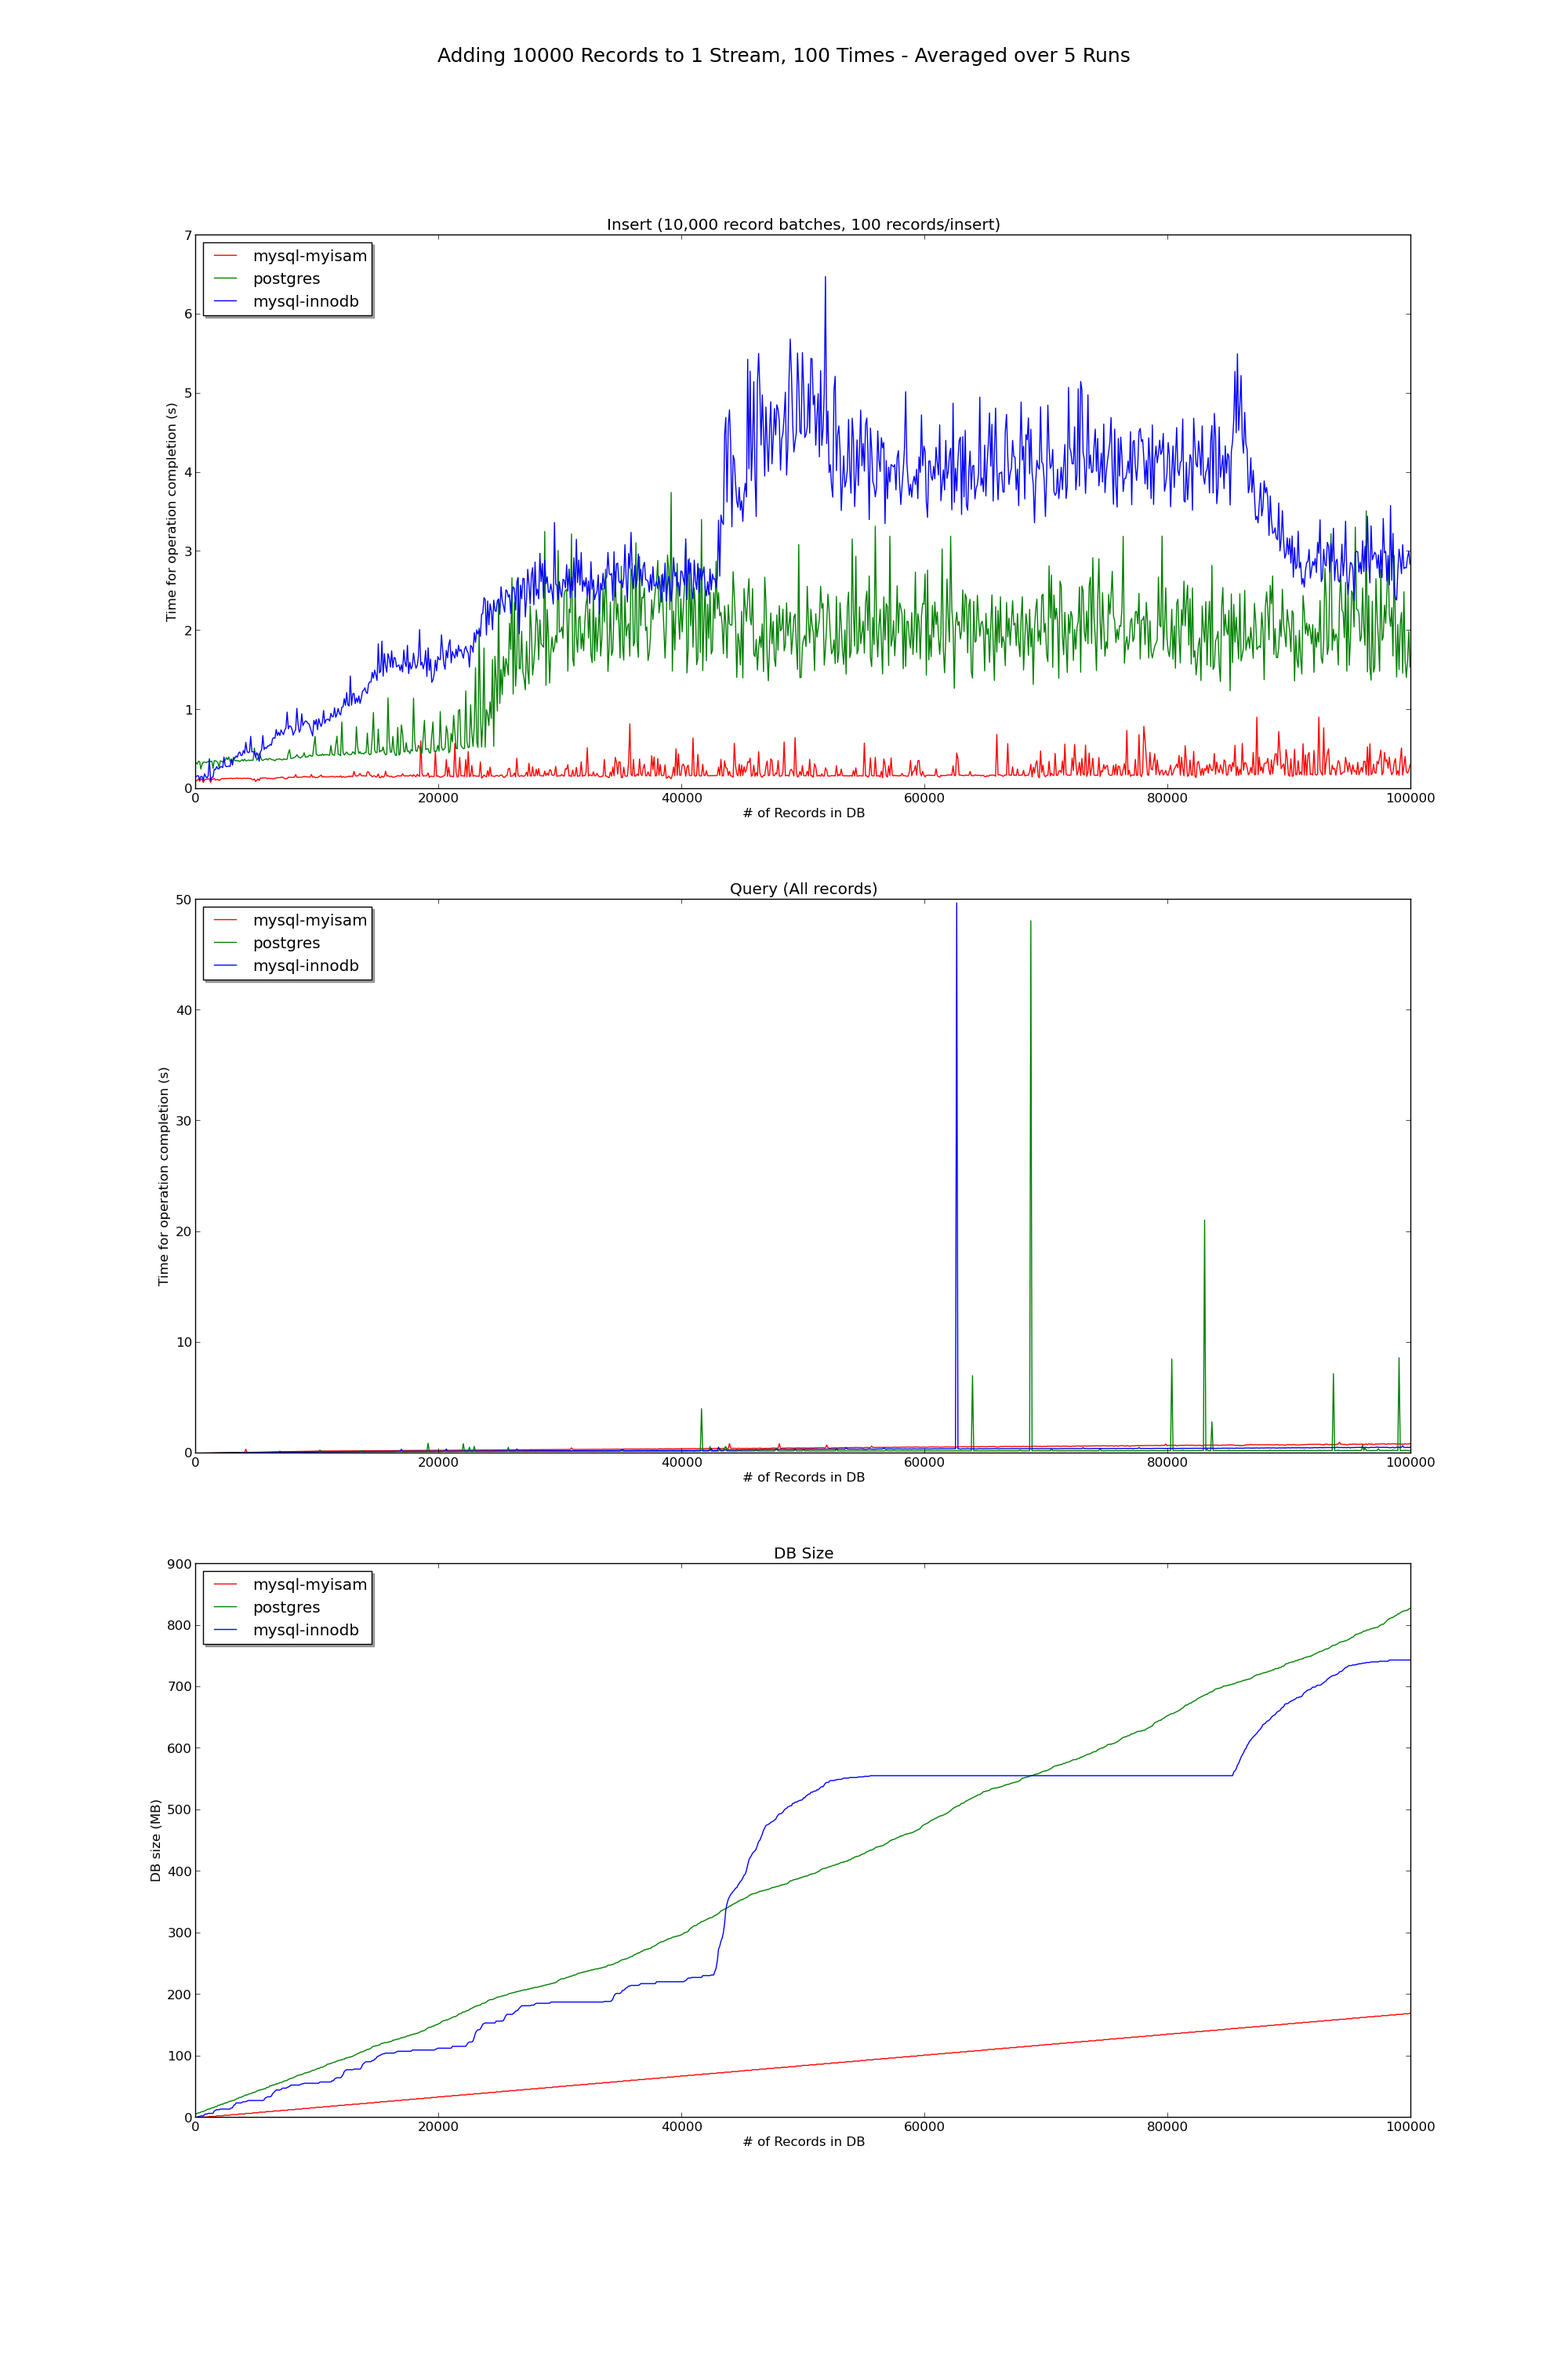
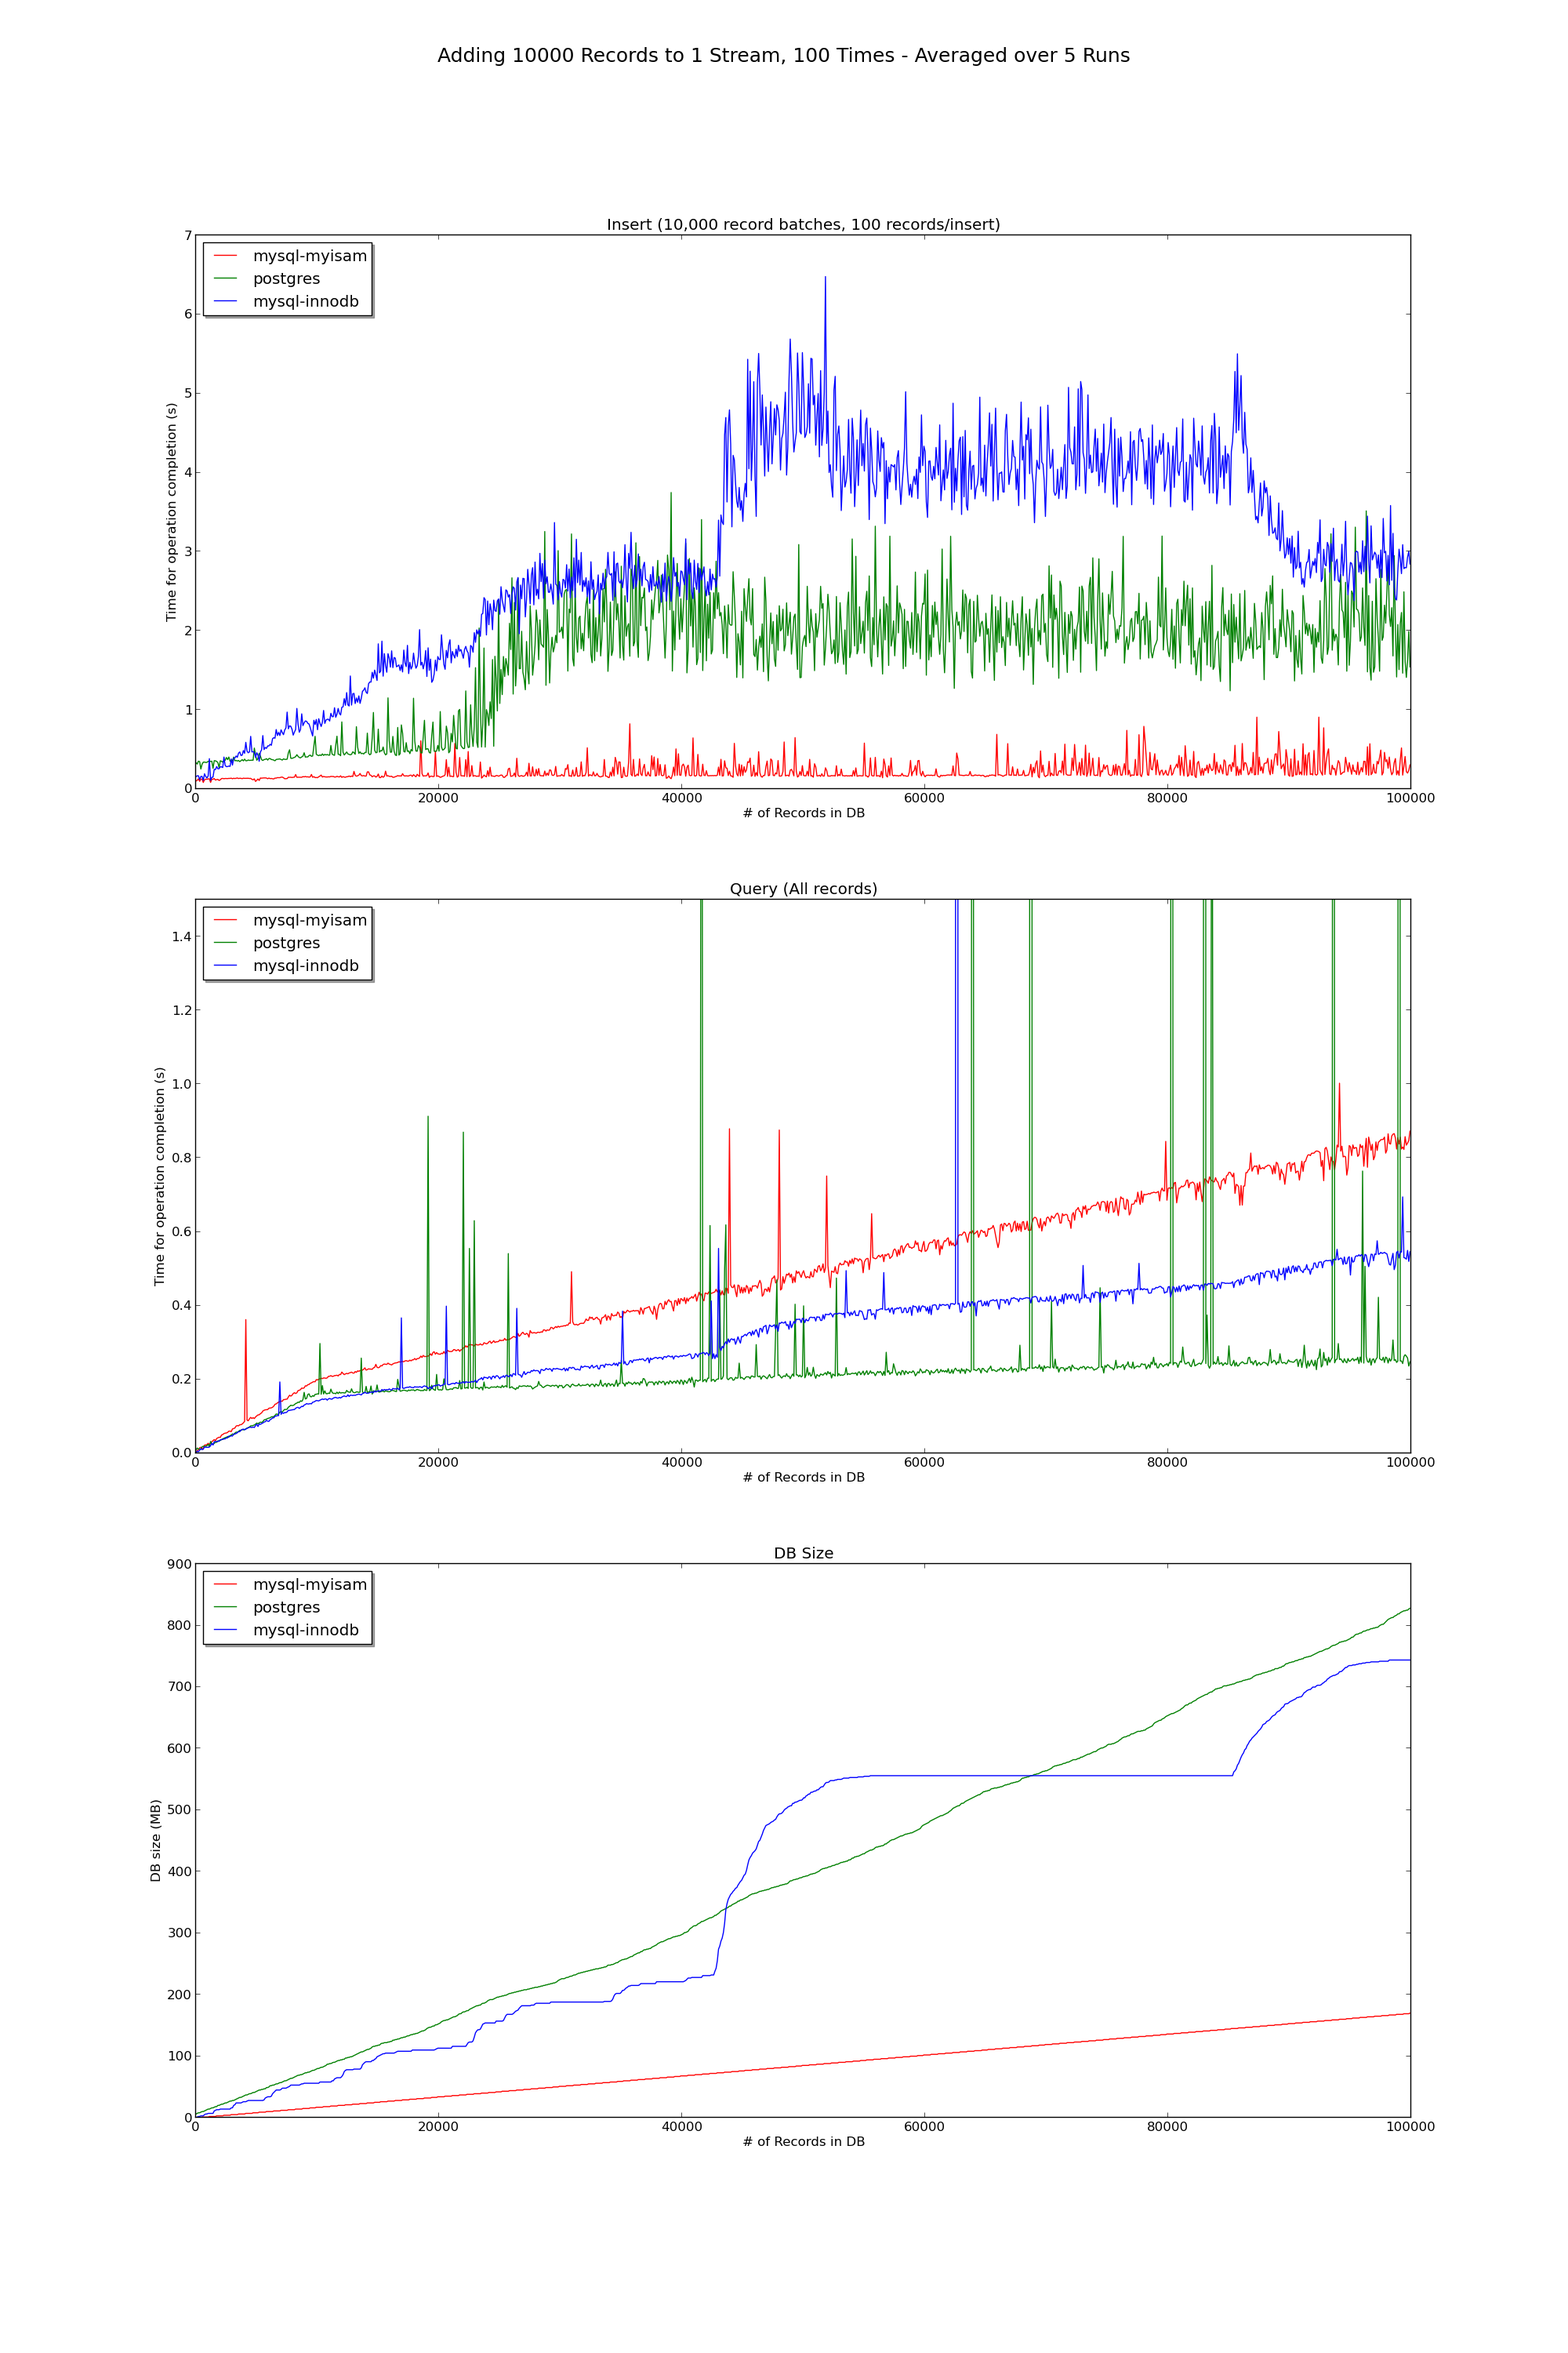
partially completed stats averager

diff --git a/logparse/averager_new_stats.py b/logparse/averager_new_stats.py
@@ -4,6 +4,7 @@ import numpy as np
 import matplotlib.pyplot as plt
 from matplotlib.figure import Figure
 import numpy as np
+from math import sqrt
 
 #here we go through all the dbs
 
@@ -44,14 +45,44 @@ def average_from_files(filedatalst):
     for lineset in filedata:
         parsed.append(parsedata(lineset))
         numdiv += 1
-        print(numdiv)
-   
-    totalarr = parsed[0]
-    for x in range(1, len(parsed)):
-        totalarr += parsed[x]
+        #print(numdiv)
+    #now instead of having [run1, run2, run3, etc..], arrange as 
+    #[stat1, stat2, stat3] with runs inside 
+    #print(parsed)
+    stats = []
+    
+    x = parsed[0]
+    #stats.append(x[:,0]) #get the first column (number of records in db), which is always aligned
+    for colnum in range(0, np.shape(x)[1]):
+        #print(colnum)
+        stats.append(x[:,colnum]) #start the array for each stat
+    for run_stats in range(1, len(parsed)):
+        #print(parsed[run_stats])
+        for colnum in range(1, np.shape(parsed[run_stats])[1]):
+            #print(colnum)
+            stats[colnum] = np.vstack((stats[colnum], parsed[run_stats][:,colnum]))
+    for ar_num in range(len(stats)):
+        #here, go arr > matrix then transpose
+        stats[ar_num] = np.transpose(np.matrix(stats[ar_num]))
+            
+    #print(stats)
+    stats = map(lambda x: np.array(x), stats)
+    #print(stats)
+    #now need to compute standard errors means, tack them on as the last column
+    for x in range(len(stats[1])):
+        print(stats[1][x])
+        mean = np.mean(stats[1][x])
+        print(mean)
+        se = np.std(stats[1][x])/sqrt(len(stats[1][x]))
+        stats[1][x] = np.append(stats[1][x], mean)
+        stats[1][x] = np.append(stats[1][x], se)
 
-    averagearr = totalarr/numdiv
-    return averagearr
+    print(stats)
+
+
+    sys.exit(0)
+    #averagearr = totalarr/numdiv
+    return stats
 
 
 def parsedata(lines):
@@ -113,7 +144,7 @@ for db in dbfolders:
 print(db_arrays)
 
 fig = plt.figure(figsize=(20, 30), dpi=300)
-fig.suptitle('Adding 10000 Records to 1 Stream, 100 Times - Averaged over 5 Runs', fontsize=18)
+fig.suptitle('Adding 1 Record to 10000 Streams, 1000 Times - Averaged over 5 Runs', fontsize=18)
 ax1 = fig.add_subplot(311)
 ax2 = fig.add_subplot(312)
 ax3 = fig.add_subplot(313)
@@ -126,7 +157,7 @@ ax1.set_ylabel('Time for operation completion (s)')
 ax2.set_title('Query (All records)')
 ax2.set_xlabel('# of Records in DB')
 ax2.set_ylabel('Time for operation completion (s)')
-ax2.set_ylim(bottom = 0, top = 1.5)
+#ax2.set_ylim(bottom = 0, top = 1.5)
 
 ax3.set_title('DB Size')
 ax3.set_xlabel('# of Records in DB')
